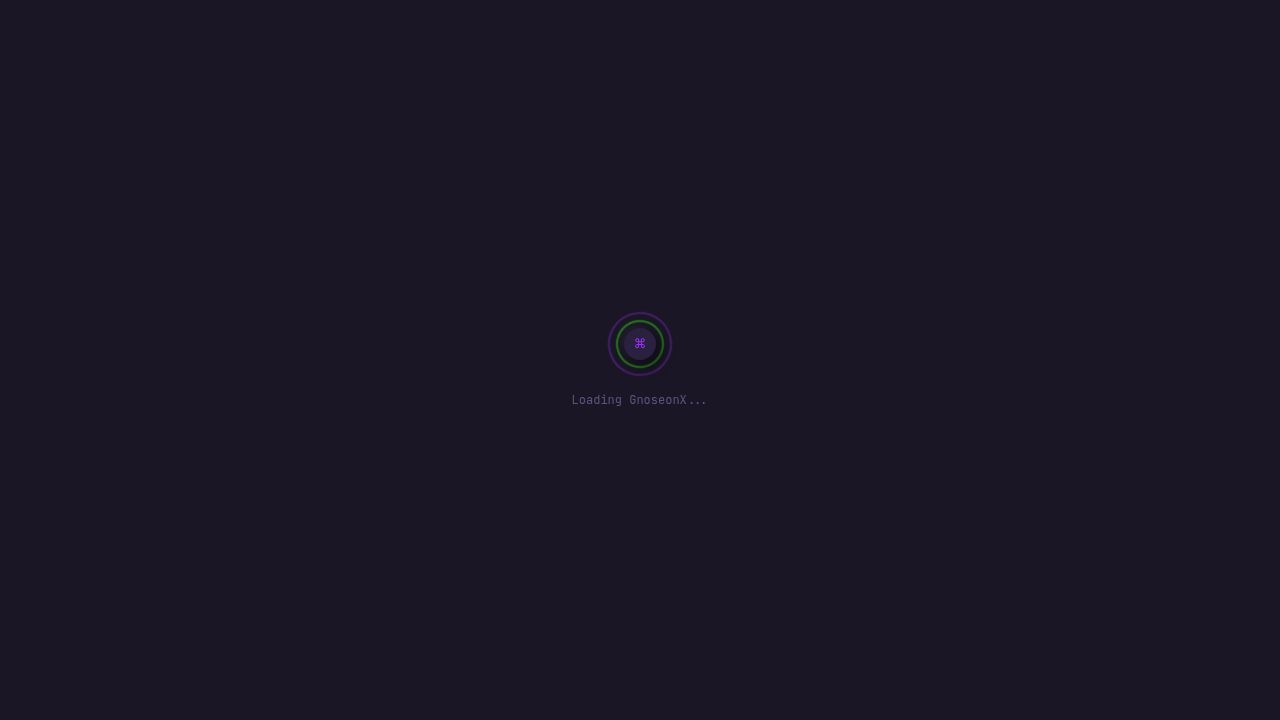
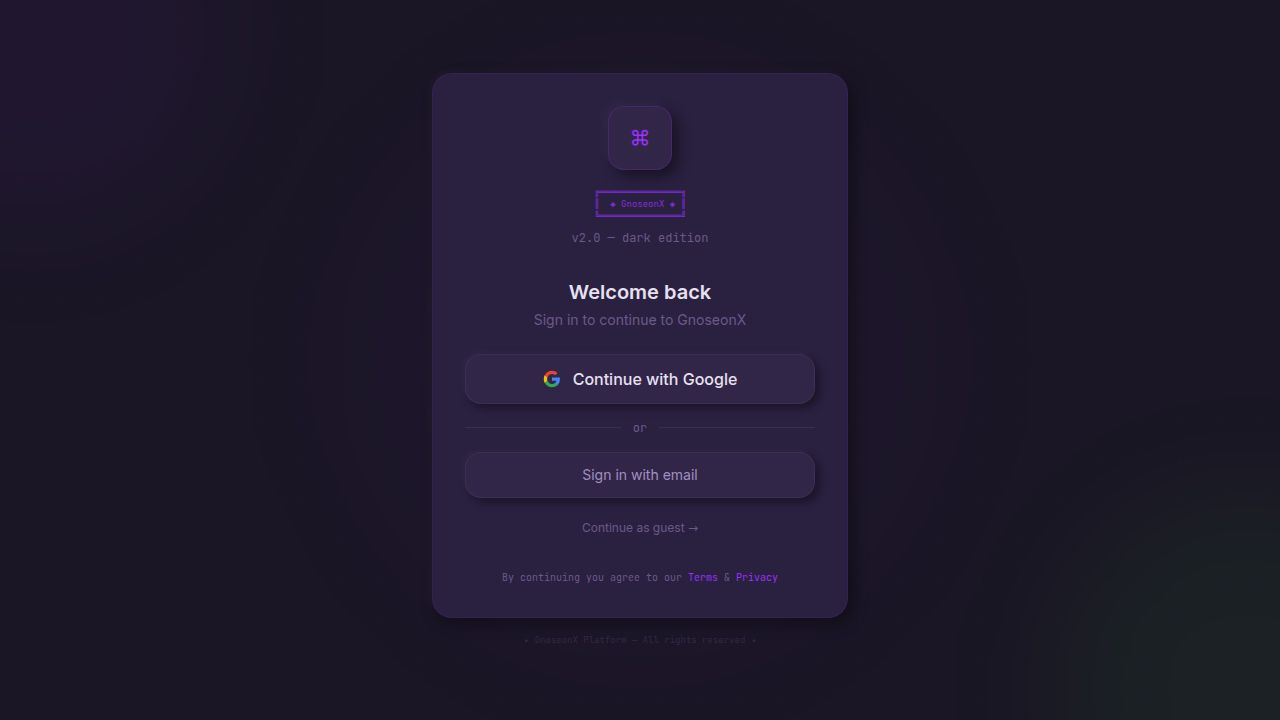
Fix three bugs found during comprehensive UI testing of GnoseonX
1. FriendsView.tsx — replaced CommonJS `require("@/lib/mockData")` inside
   FriendRow component with a top-level ESM import. Vite/ESM does not support
   `require()`, causing a runtime crash whenever the Friends view was opened.

2. AppShell.tsx — CreateServerModal and UserProfileModal were never mounted in
   the render tree, so the "Add Server" (+) button and clicking a user avatar
   had no effect. Both modals are now imported and rendered in AppShell.

3. UserProfileModal.tsx — the Modal received no `title` prop, so no close (×)
   button was rendered. Added `title="Profile"`, removed the pre-render early
   return that bypassed AnimatePresence, and guarded inner content with
   `{user && ...}` so the modal can animate out cleanly.

All features tested and passing: login, chat, DMs, Friends, Status stories,
Location map, Notifications, Create Server modal, User Profile modal, Call modal.

Changed region(s): [[0.3125, 0.0917, 0.6875, 0.8556]]

diff --git a/artifacts/gnoseonx/src/components/ui/UserProfileModal.tsx b/artifacts/gnoseonx/src/components/ui/UserProfileModal.tsx
@@ -20,7 +20,6 @@ export const UserProfileModal = () => {
   const { showUserProfile, setShowUserProfile, setActiveCall, setShowCallModal } =
     useAppStore();
 
-  if (!showUserProfile) return null;
   const user = showUserProfile;
 
   const startCall = (type: "voice" | "video") => {
@@ -42,91 +41,70 @@ export const UserProfileModal = () => {
     <Modal
       isOpen={!!showUserProfile}
       onClose={() => setShowUserProfile(null)}
+      title="Profile"
       size="sm"
     >
-      <div className="space-y-4">
-        {/* Banner */}
-        <div className="relative -mx-6 -mt-6 h-28 bg-gradient-to-r from-violet-300 via-lava-200 to-neon-300 rounded-t-3xl">
-          <div className="absolute -bottom-10 left-6">
-            <div className="ring-4 ring-surface-100 rounded-3xl">
-              <Avatar
-                name={user.name}
-                image={user.image}
-                size="xl"
-                status={user.status}
-              />
+      {user && (
+        <div className="space-y-4">
+          {/* Banner */}
+          <div className="relative -mx-6 -mt-6 h-28 bg-gradient-to-r from-violet/60 via-lava/40 to-neon/40 rounded-t-3xl">
+            <div className="absolute -bottom-10 left-6">
+              <div className="ring-4 ring-surface rounded-3xl">
+                <Avatar
+                  name={user.name}
+                  image={user.image}
+                  size="xl"
+                  status={user.status}
+                />
+              </div>
             </div>
           </div>
-        </div>
 
-        <div className="pt-8">
-          <h3 className="font-mono text-xl font-bold text-surface-500">
-            {user.name}
-          </h3>
-          <p className="font-mono text-xs text-surface-400">{user.email}</p>
-        </div>
-
-        {/* Status */}
-        {user.statusText && (
-          <div className="bg-surface-200 shadow-neu-input rounded-xl p-3">
-            <p className="font-mono text-xs text-surface-500">
-              {user.statusText}
-            </p>
+          <div className="pt-8">
+            <h3 className="text-xl font-bold text-text-primary">{user.name}</h3>
+            <p className="text-xs text-text-muted">{user.email}</p>
           </div>
-        )}
 
-        <AsciiDivider variant="dots" />
-
-        {/* Info */}
-        <div className="space-y-2">
-          {user.location && (
-            <div className="flex items-center gap-2 font-mono text-xs text-surface-400">
-              <MapPin size={14} className="text-lava-300" />
-              <span>{user.location}</span>
+          {/* Status */}
+          {user.statusText && (
+            <div className="bg-surface-2 rounded-xl p-3 border border-violet/10">
+              <p className="text-xs text-text-secondary">{user.statusText}</p>
             </div>
           )}
-          {user.lastSeen && (
-            <div className="flex items-center gap-2 font-mono text-xs text-surface-400">
-              <Clock size={14} className="text-violet-300" />
-              <span>
-                Last seen{" "}
-                {formatDistanceToNow(new Date(user.lastSeen), {
-                  addSuffix: true,
-                })}
-              </span>
-            </div>
-          )}
-        </div>
 
-        {/* Actions */}
-        <div className="flex gap-2 pt-2">
-          <NeuButton variant="violet" className="flex-1">
-            <MessageSquare size={16} />
-            <span className="text-xs">Message</span>
-          </NeuButton>
-          <NeuButton
-            variant="neon"
-            size="icon"
-            onClick={() => startCall("voice")}
-          >
-            <Phone size={16} />
-          </NeuButton>
-          <NeuButton
-            variant="lava"
-            size="icon"
-            onClick={() => startCall("video")}
-          >
-            <Video size={16} />
-          </NeuButton>
-        </div>
+          <AsciiDivider variant="dots" />
 
-        {/* ASCII art footer */}
-        <div className="text-center font-mono text-[8px] text-surface-400/30 select-none">
-          ╔═══════════════════╗<br />
-          ║ GnoseonX Profile ║<br />
-          ╚═══════════════════╝
+          {/* Info */}
+          <div className="space-y-2">
+            {user.location && (
+              <div className="flex items-center gap-2 text-xs text-text-muted">
+                <MapPin size={14} className="text-lava" />
+                <span>{user.location}</span>
+              </div>
+            )}
+            {user.lastSeen && (
+              <div className="flex items-center gap-2 text-xs text-text-muted">
+                <Clock size={14} className="text-violet" />
+                <span>Last seen {formatDistanceToNow(new Date(user.lastSeen), { addSuffix: true })}</span>
+              </div>
+            )}
+          </div>
+
+          {/* Actions */}
+          <div className="flex gap-2 pt-2">
+            <NeuButton variant="violet" className="flex-1">
+              <MessageSquare size={16} />
+              <span className="text-xs">Message</span>
+            </NeuButton>
+            <NeuButton variant="neon" size="icon" onClick={() => startCall("voice")}>
+              <Phone size={16} />
+            </NeuButton>
+            <NeuButton variant="lava" size="icon" onClick={() => startCall("video")}>
+              <Video size={16} />
+            </NeuButton>
+          </div>
         </div>
-      </div>
+      )}
     </Modal>
   );
 };

diff --git a/artifacts/gnoseonx/src/components/layout/AppShell.tsx b/artifacts/gnoseonx/src/components/layout/AppShell.tsx
@@ -9,6 +9,8 @@ import { ChatArea } from "@/components/chat/ChatArea";
 import { CallModal } from "@/components/call/CallModal";
 import { StatusModal } from "@/components/status/StatusModal";
 import { NotificationPanel } from "@/components/ui/NotificationPanel";
+import { CreateServerModal } from "@/components/ui/CreateServerModal";
+import { UserProfileModal } from "@/components/ui/UserProfileModal";
 import { MobileNav } from "./MobileNav";
 
 export const AppShell = () => {
@@ -73,6 +75,8 @@ export const AppShell = () => {
       {/* Modals */}
       {showCallModal && <CallModal />}
       {showStatusModal && <StatusModal />}
+      <CreateServerModal />
+      <UserProfileModal />
 
       {/* Notification panel */}
       {showNotifications && (

diff --git a/artifacts/gnoseonx/src/components/ui/FriendsView.tsx b/artifacts/gnoseonx/src/components/ui/FriendsView.tsx
@@ -2,7 +2,7 @@
 
 import React, { useState } from "react";
 import { useAppStore } from "@/store/appStore";
-import { mockUsers } from "@/lib/mockData";
+import { mockUsers, mockDMs } from "@/lib/mockData";
 import { UserPlus, Users, Clock, Ban, Search, Phone, Video, MessageSquare } from "lucide-react";
 import type { User } from "@/types";
 
@@ -93,7 +93,6 @@ export const FriendsView = () => {
 
 const FriendRow = ({ user }: { user: User }) => {
   const { setActiveDM, setActiveView } = useAppStore();
-  const { mockDMs } = require("@/lib/mockData");
 
   const statusColors: Record<string, string> = {
     online: "status-online",